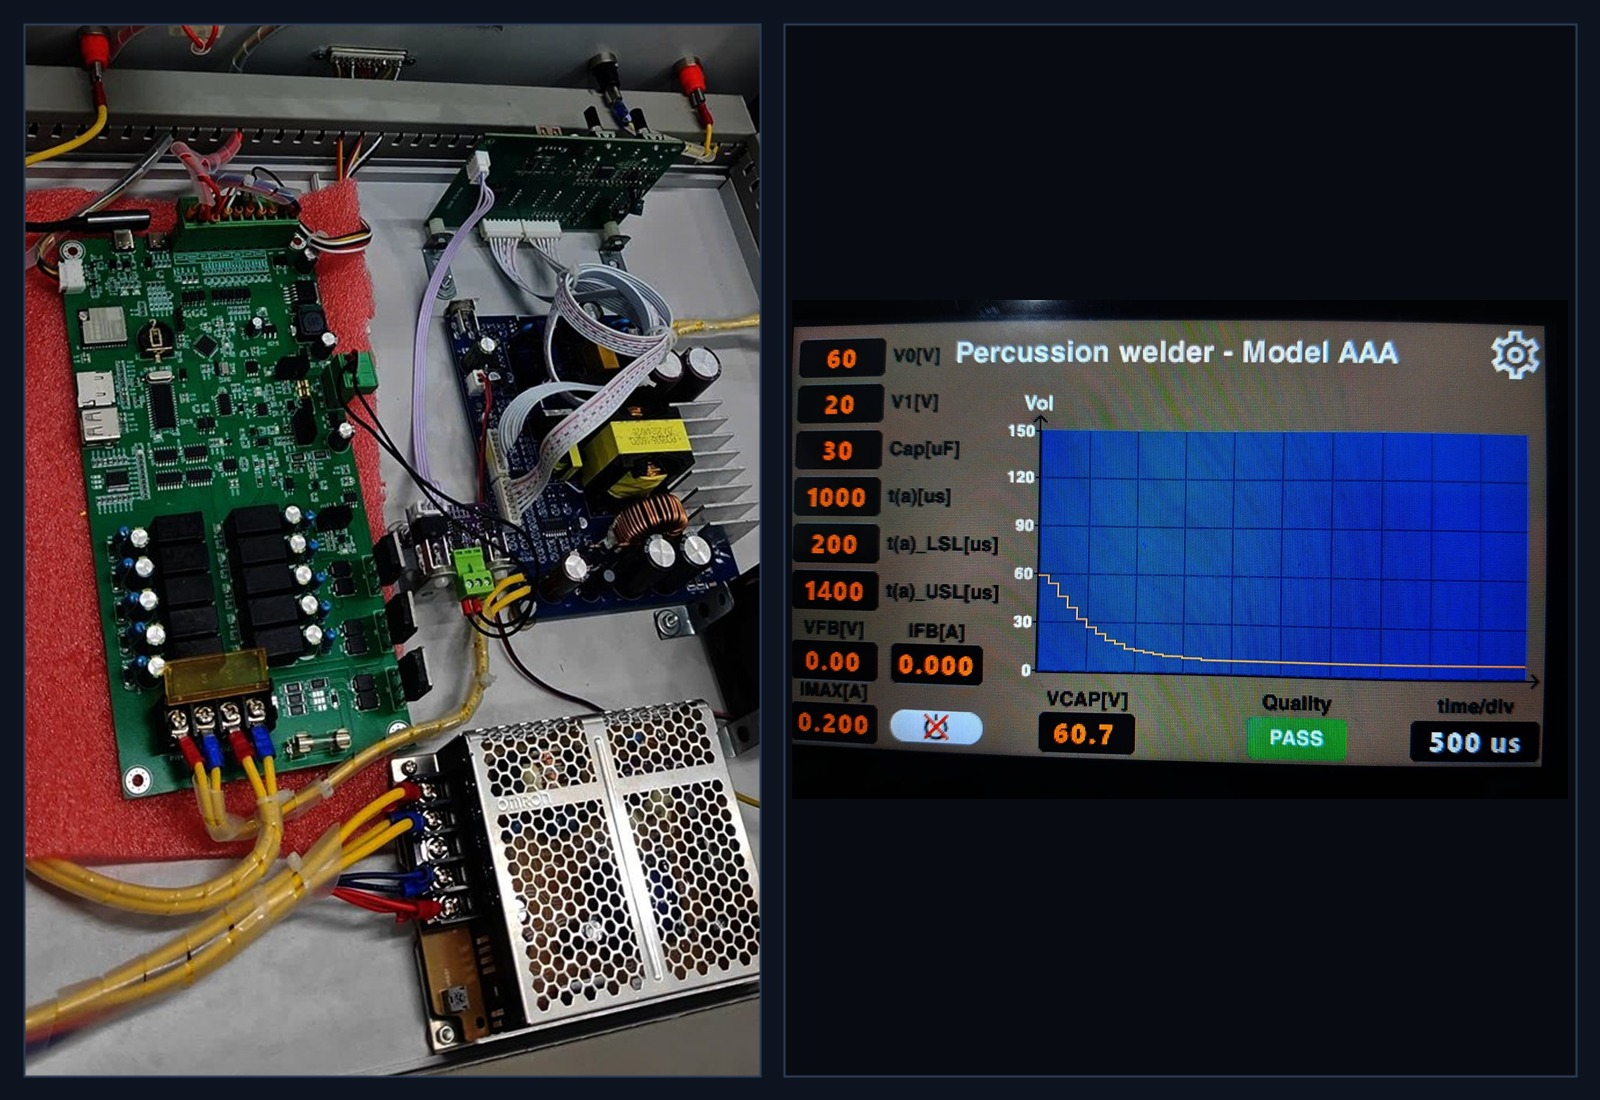
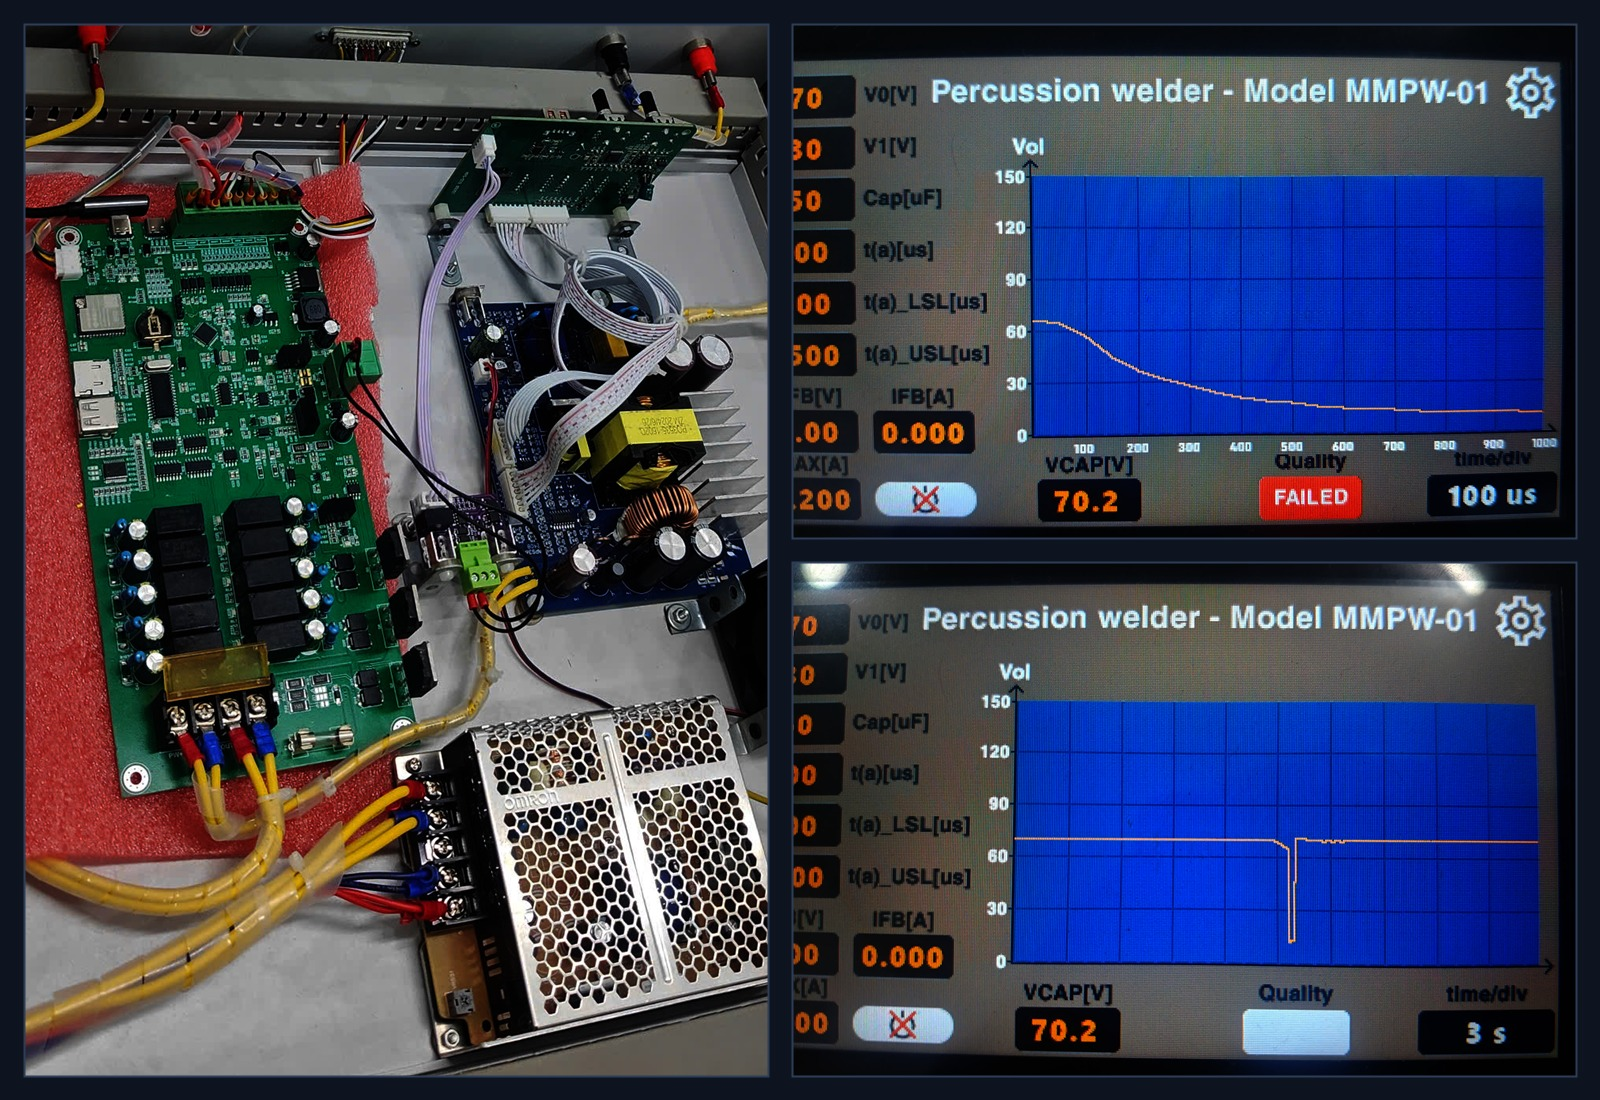
Update welder cabinet & HMI card with 3 V3 images and differential AFE improvement summary

diff --git a/index.html b/index.html
@@ -760,17 +760,17 @@
           <!-- 9. Cabinet Integration & Waveform HMI -->
           <article class="gallery-card" data-category="system" data-lightbox>
             <div class="gallery-thumb">
-              <img src="assets/media/industrial-cabinet-hmi-system.jpg" alt="Industrial Welder Control Cabinet and Real-Time Waveform HMI" loading="lazy" />
+              <img src="assets/media/industrial-cabinet-hmi-system.jpg?v=2" alt="Capacitor-Discharge Welder Control Cabinet and Waveform HMI" loading="lazy" />
             </div>
             <div class="gallery-info">
               <span class="gallery-cat"><span data-i18n="vi">Hệ thống — Tủ điều khiển & HMI</span><span data-i18n="en">System — Control Cabinet & HMI</span></span>
               <h3 class="gallery-title">
-                <span data-i18n="vi">Tủ điều khiển máy hàn công nghiệp & Đồ thị sóng HMI</span>
-                <span data-i18n="en">Industrial Welder Control Cabinet & Waveform HMI</span>
+                <span data-i18n="vi">Tủ điều khiển máy hàn phóng tụ & Đồ thị sóng HMI</span>
+                <span data-i18n="en">Capacitor-Discharge Welder Cabinet & Waveform HMI</span>
               </h3>
               <p class="gallery-desc">
-                <span data-i18n="vi">Phối hợp bo công suất Dual-MCU, nguồn Modbus RS-485 với thu mẫu ADC+DMA vẽ sóng thời gian thực và phán định PASS/REJECT.</span>
-                <span data-i18n="en">Integrates Dual-MCU power board and Modbus PSU with high-speed ADC+DMA waveform capture and automated PASS/REJECT inspection.</span>
+                <span data-i18n="vi">Phối hợp bo Dual-MCU, nguồn Modbus với thu mẫu ADC+DMA vẽ xung xả (100 µs – 3 s); cải tiến mạch đo AFE vi sai 4 dây bù tần số (1x/10x) giúp khử nhiễu dội mass và bắt chính xác vùng áp thấp.</span>
+                <span data-i18n="en">Pairs Dual-MCU power control and Modbus PSU with multi-scale ADC+DMA waveform capture (100 µs – 3 s); upgraded with a 4-wire Kelvin compensated differential AFE (1x/10x) for clean low-voltage sensing.</span>
               </p>
             </div>
           </article>
